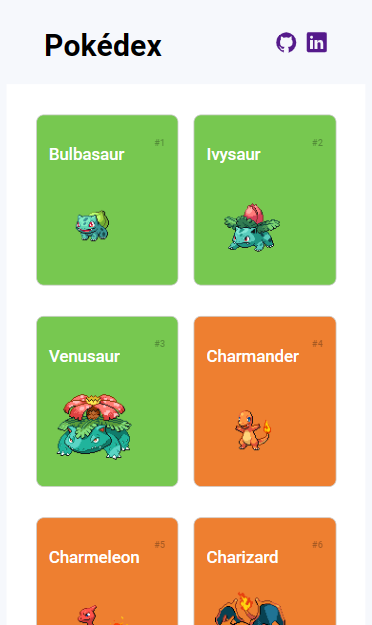
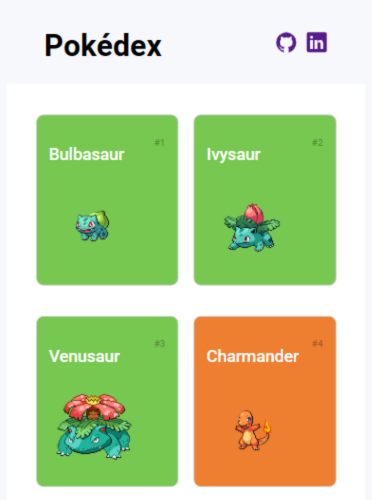
página projetos finalizada

diff --git a/script-projetos.js b/script-projetos.js
@@ -5,34 +5,52 @@ const resultados = document.getElementById('resultados');
 // Exemplo de lista de resultados (você pode substituir isso com seus próprios dados)
 const listaResultados = [
   {
-    titulo: 'Exemplo HTML',
-    categoria: 'html',
-    imagem: './imagens/projetos/projetos-mobile/pokedex-mobile.png',
-    link: 'https://germanavaz.github.io/pokedex/'
-  },
-  {
-    titulo: 'Exemplo CSS',
-    categoria: 'css',
-    imagem: './imagens/projetos/projetos-mobile/pokedex-mobile.png',
-    link: 'https://germanavaz.github.io/pokedex/'
-  },
-  {
-    titulo: 'Exemplo JavaScript',
+    titulo: 'Pokedex',
     categoria: 'javascript',
     imagem: './imagens/projetos/projetos-mobile/pokedex-mobile.png',
     link: 'https://germanavaz.github.io/pokedex/'
   },
   {
-    titulo: 'Exemplo WordPress',
-    categoria: 'wordpress',
-    imagem: './imagens/projetos/projetos-mobile/pokedex-mobile.png',
-    link: 'https://germanavaz.github.io/pokedex/'
+    titulo: 'Link Tree',
+    categoria: 'javascript',
+    imagem: './imagens/projetos/projetos-mobile/links-mobile.png',
+    link: 'https://germanavaz.github.io/links-project/'
   },
   {
-    titulo: 'Exemplo Elementor',
+    titulo: 'ODS - ONU',
+    categoria: 'html',
+    imagem: './imagens/projetos/projetos-mobile/ods-mobile.png',
+    link: 'https://germanavaz.github.io/ods-onu/'
+  },
+  {
+    titulo: 'Loja Virtual',
+    categoria: 'javascript',
+    imagem: './imagens/projetos/projetos-mobile/market-mobile.png',
+    link: 'https://germanavaz.github.io/market/'
+  },
+  {
+    titulo: 'Agência de Sites',
     categoria: 'elementor',
-    imagem: './imagens/projetos/projetos-mobile/pokedex-mobile.png',
-    link: 'https://germanavaz.github.io/pokedex/'
+    imagem: './imagens/projetos/projetos-mobile/studio-mobile.png',
+    link: 'https://germanavaz.com.br/'
+  },
+  {
+    titulo: 'Inova Nutrição',
+    categoria: 'elementor',
+    imagem: './imagens/projetos/projetos-mobile/nutricao-mobile.png',
+    link: 'https://germanavaz.com.br/inovarenutricao/'
+  },
+  {
+    titulo: 'App Exercícios',
+    categoria: 'elementor',
+    imagem: './imagens/projetos/projetos-mobile/exercicios-mobile.png',
+    link: 'https://germanavaz.com.br/5minutos/'
+  },
+  {
+    titulo: 'App Financias',
+    categoria: 'elementor',
+    imagem: './imagens/projetos/projetos-mobile/finans-mobile.png',
+    link: 'https://germanavaz.com.br/finans/'
   },
   
 ];

diff --git a/projetos.html b/projetos.html
@@ -17,7 +17,7 @@
             </button>
             <ul id="menu">
                 <li><a href="./index.html">Início</a></li>
-                <li><a href="#projetos">Projetos</a></li>
+                <li><a href="#projetos-projetos">Projetos</a></li>
                 <li><a href="#contato">Contato</a></li>
             </ul>
         </nav>
@@ -32,11 +32,9 @@
         <section id="projetos-projetos" class="bg-color">
             <div id="filtro">
                 <div id="categorias">
-                  <label><input type="checkbox" name="categoria" value="html"> HTML</label>
-                  <label><input type="checkbox" name="categoria" value="css"> CSS</label>
+                  <label><input type="checkbox" name="categoria" value="html"> HTML/CSS</label>
                   <label><input type="checkbox" name="categoria" value="javascript"> JavaScript</label>
                   <label><input type="checkbox" name="categoria" value="wordpress"> WordPress</label>
-                  <label><input type="checkbox" name="categoria" value="elementor"> Elementor</label>
                   <label><input type="checkbox" name="categoria" value="outra"> Todos</label>
                 </div>
                 

diff --git a/estilos/projetos/projetos.css b/estilos/projetos/projetos.css
@@ -36,21 +36,27 @@ label {
 .projeto-cadaprojeto {
     background-color: var(--bg-color);
     width: 200px;
-    height: 300px;
     margin: 1rem;
     padding: 1rem;
     border-radius: 1rem;
-    box-shadow: 0 0 15px rgba(0,0,0,.09);
+    box-shadow: 0 0 15px rgba(0,0,0, .3);
     display: flex;
     flex-direction: column;
     align-items: center;
+    gap: 0.7rem;
 
 }
 
 .projeto-cadaprojeto img {
-    box-shadow: 0 0 10px rgba(0,0,0, 0.5);
+    box-shadow: 0 0 10px rgba(0,0,0, 0.2);
     border-radius: 6px;
+    width: fit-content;
 }
+
+.projeto-cadaprojeto img:hover {
+    transform: scale(1.05);
+}
+
 
 
 
